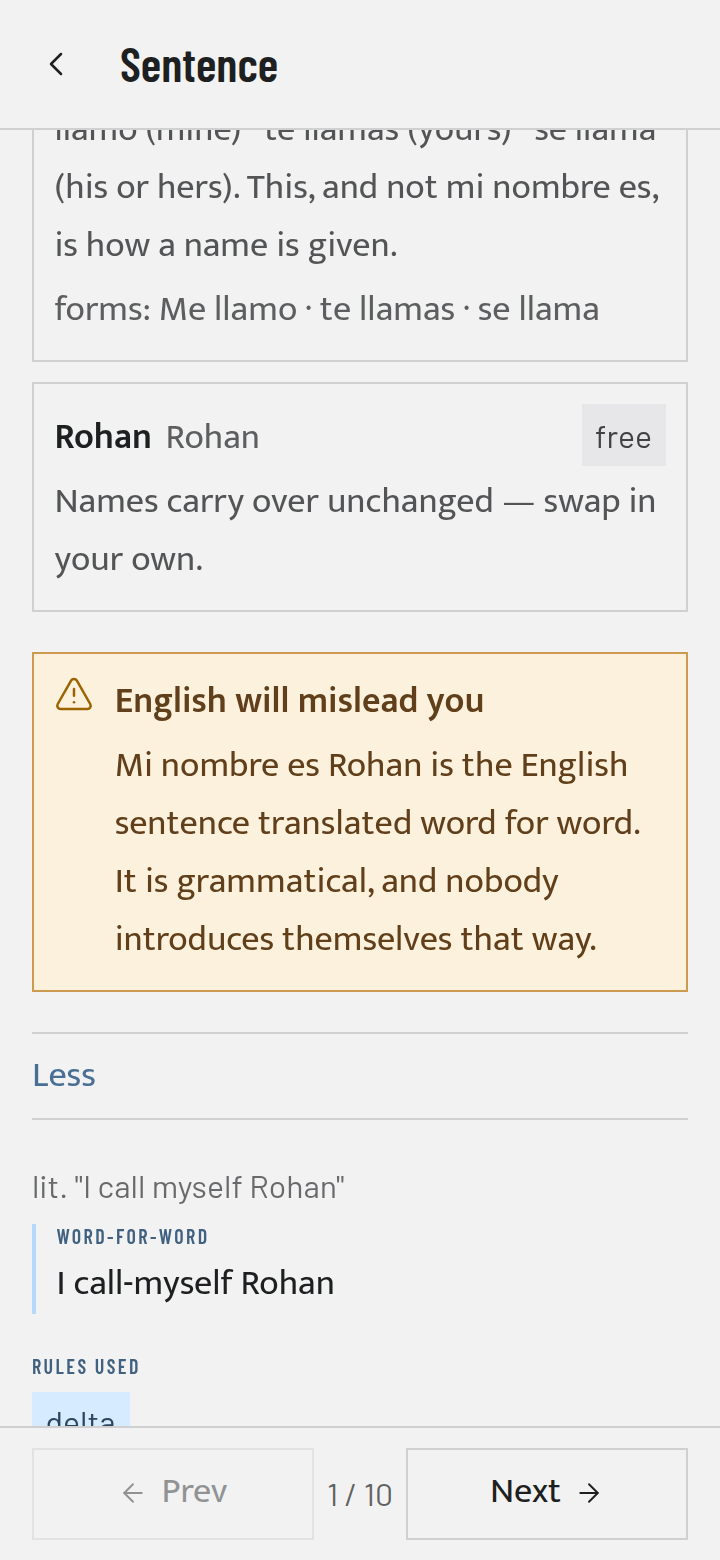
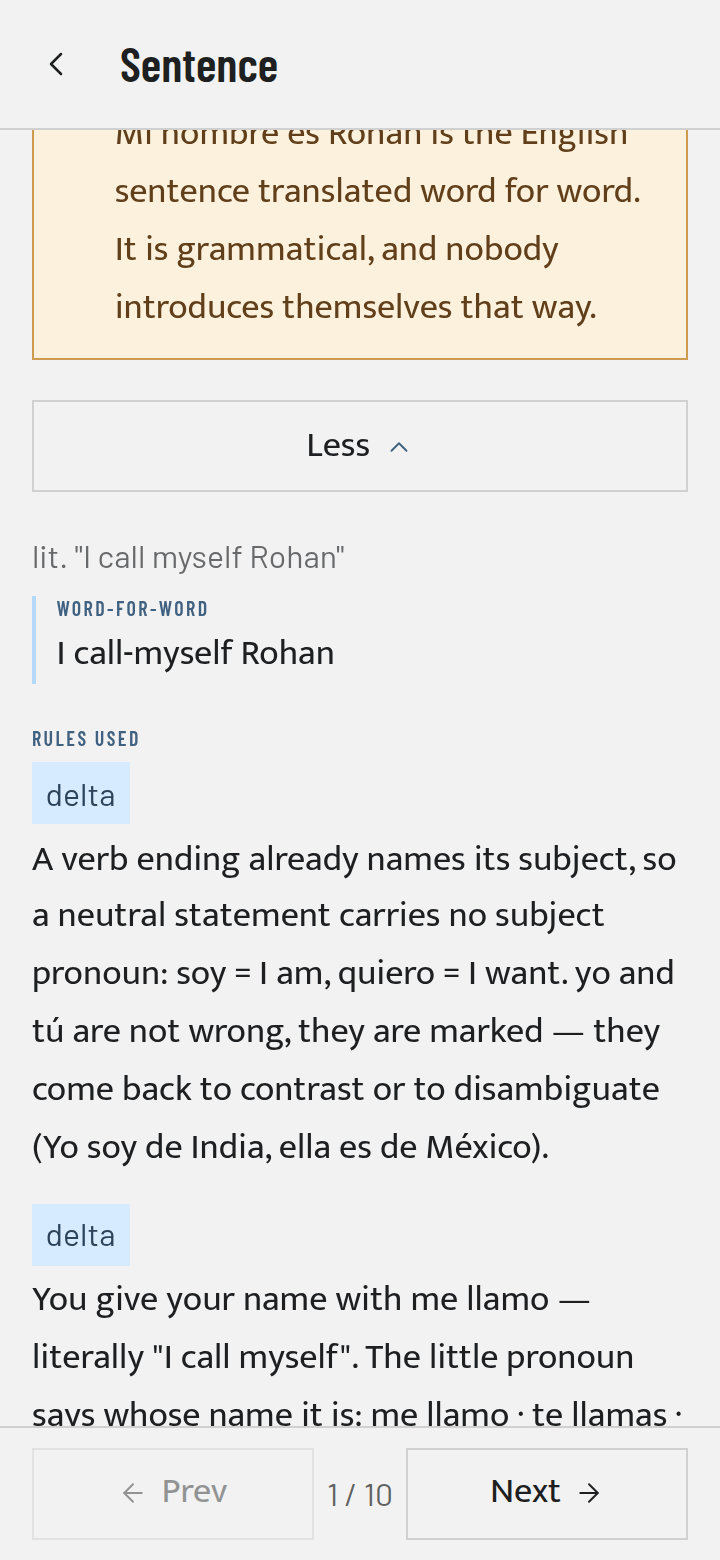
Sentence: "Go deeper" is a door, not a caption (#408)
#401 put the lower tier behind a disclosure and drew it as a ghost - accent
text at the prose size between two hairlines, no frame, no icon. Between the
amber trap plate and the "Pocket it" plate it read as a line of text, and
watched in use it was not tapped.

It now wears the pager's own button shape from the same screen - a hairline
frame at the secondary height, centred - plus the one thing a disclosure needs
that a pager does not: a chevron, down when closed and up when open. Measured
live at 360px: 46px tall, the same as Prev and Next beside it. Labels,
aria-expanded and aria-controls are unchanged; the README's two sentence-detail
captures are retaken with the control in frame.

Claude-Session: https://claude.ai/code/session_01EAdfThPTS7poszHW8yiQLo

Changed region(s): [[0.0306, 0.0615, 0.9472, 0.9231], [0.7333, 0.2769, 0.9167, 0.3385], [0.8861, 0.0615, 0.9167, 0.0923]]

diff --git a/src/screens/SentenceScreen.tsx b/src/screens/SentenceScreen.tsx
@@ -42,7 +42,7 @@
  */
 import { useLayoutEffect, useState } from 'react';
 import { Link, Navigate, useNavigate, useParams } from 'react-router-dom';
-import { ArrowLeft, ArrowRight, TriangleAlert } from 'lucide-react';
+import { ArrowLeft, ArrowRight, ChevronDown, ChevronUp, TriangleAlert } from 'lucide-react';
 import { ContentErrorScreen } from '../course/BootScreens.tsx';
 import { useCourse } from '../course/CourseProvider.tsx';
 import { useModule, useModules } from '../course/content.ts';
@@ -309,12 +309,17 @@ function SentenceDetail({ moduleId, sentenceId }: SentenceDetailProps) {
         </section>
       )}
 
-      {/* THE DISCLOSURE (#401). Above it is what a sentence IS — the line, its words, and the one
-          thing that will bite; below it, still in the frozen order, is everything else the course
-          has to say about it. Six sections and three screens per sentence was the reading path a
-          first-timer walked ten times a module, and most of it restated the tier above (the gloss
-          says the literal; a word's note says its rule). Nothing is removed and nothing moves:
-          one control, and the depth is one tap away for the sentence that earns the question. */}
+      {/* THE DISCLOSURE (#401, #408). Above it is what a sentence IS — the line, its words, and the
+          one thing that will bite; below it, still in the frozen order, is everything else the
+          course has to say about it. Six sections and three screens per sentence was the reading
+          path a first-timer walked ten times a module, and most of it restated the tier above (the
+          gloss says the literal; a word's note says its rule). Nothing is removed and nothing
+          moves: one control, and the depth is one tap away for the sentence that earns the question.
+
+          It wears the pager's button shape — a hairline frame at the secondary height, centred —
+          and a chevron the pager does not need. The first version was a ghost: accent text between
+          two hairlines, and between the amber trap and the "pocket it" plate it read as a caption.
+          Watched in use, it was not tapped. A disclosure has to look like a door (#408). */}
       <button
         type="button"
         className={styles.deeper}
@@ -328,6 +333,11 @@ function SentenceDetail({ moduleId, sentenceId }: SentenceDetailProps) {
         dir={course.dir}
       >
         {deeper ? strings['sentence.less'] : strings['sentence.deeper']}
+        {deeper ? (
+          <ChevronUp className={styles.deeperIcon} aria-hidden="true" />
+        ) : (
+          <ChevronDown className={styles.deeperIcon} aria-hidden="true" />
+        )}
       </button>
 
       {deeper && (

diff --git a/src/screens/SentenceScreen.module.css b/src/screens/SentenceScreen.module.css
@@ -95,22 +95,23 @@
   gap: var(--space-2);
 }
 
-/* The disclosure between the tiers (#401) — the same ghost the "why" panel's toggle is
-   (`components/WhyPanel.module.css`): course words at the floor, accent, no frame, full width so
-   it reads as a rule between the two halves rather than a button floating in one of them. */
+/* The disclosure between the tiers (#401, #408) — the pager's own button shape (`.step` below:
+   hairline frame, the secondary height, centred label) drawn full width across the column, plus
+   the chevron a disclosure needs and a pager does not. It was a ghost first — accent text between
+   two hairlines — and between the amber trap and the "pocket it" plate it read as a caption rather
+   than a control. A door has to look like a door. */
 .deeper {
   composes: courseProse;
   display: flex;
   align-items: center;
+  justify-content: center;
+  gap: var(--space-2);
   width: 100%;
-  min-height: var(--ghost-height);
-  padding: var(--space-2) 0;
+  min-height: var(--btn-secondary-height);
+  padding: var(--space-2) var(--space-3);
   background: none;
-  border: 0;
-  border-top: var(--border-hairline);
-  border-bottom: var(--border-hairline);
-  color: var(--color-accent);
-  text-align: start;
+  border: var(--border-hairline);
+  color: inherit;
   cursor: pointer;
   /* kills the 300ms double-tap-zoom delay (design/pwa-checklist.md §1) */
   touch-action: manipulation;
@@ -118,7 +119,15 @@
 }
 
 .deeper:active {
-  background: color-mix(in srgb, var(--color-accent) 18%, transparent);
+  background: color-mix(in srgb, var(--color-text) 14%, transparent);
+}
+
+.deeperIcon {
+  flex: none;
+  width: var(--icon-inline);
+  height: var(--icon-inline);
+  stroke-width: var(--icon-stroke);
+  color: var(--color-accent-700);
 }
 
 /* The lower tier, open — the same column rhythm the article keeps between sections. */
